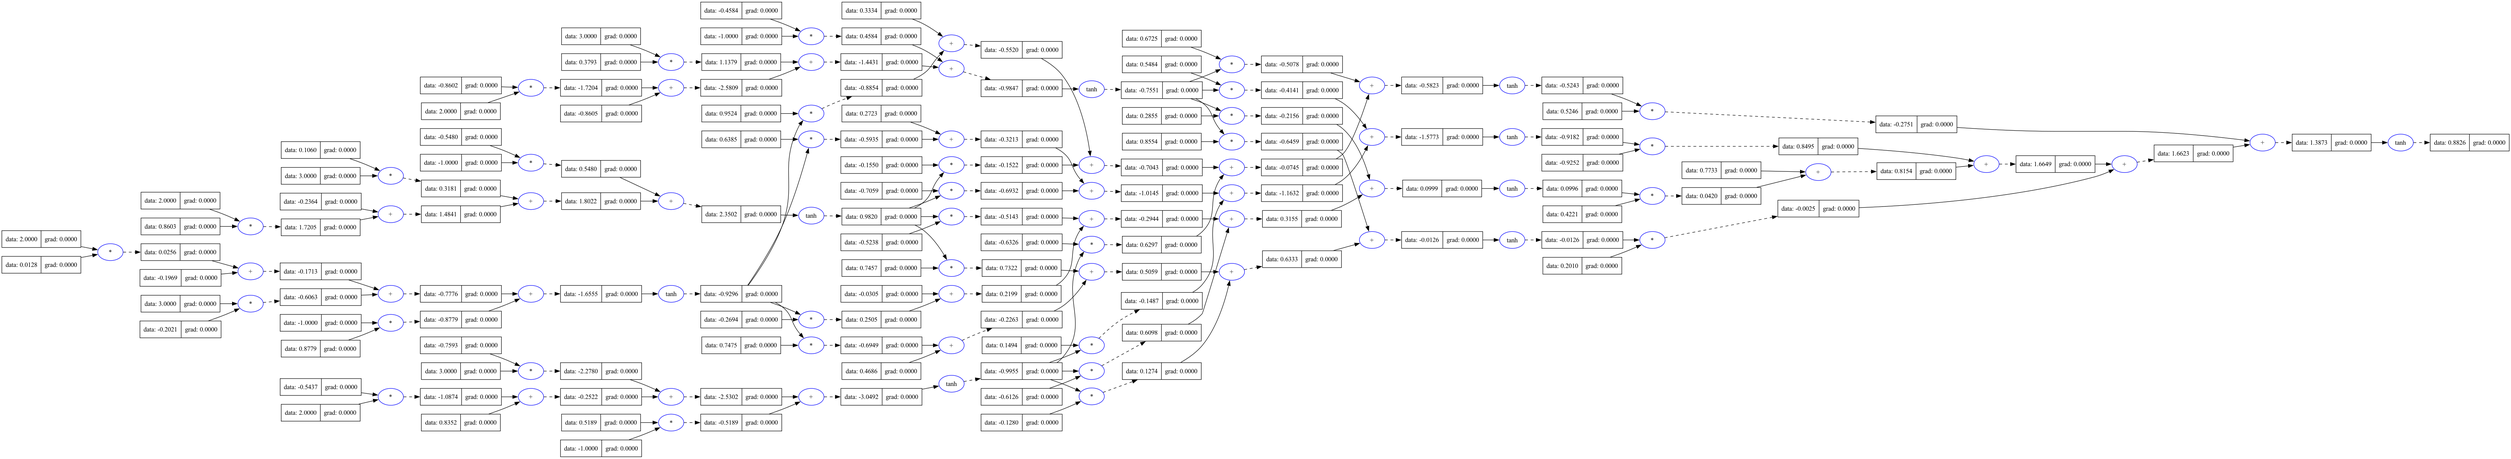
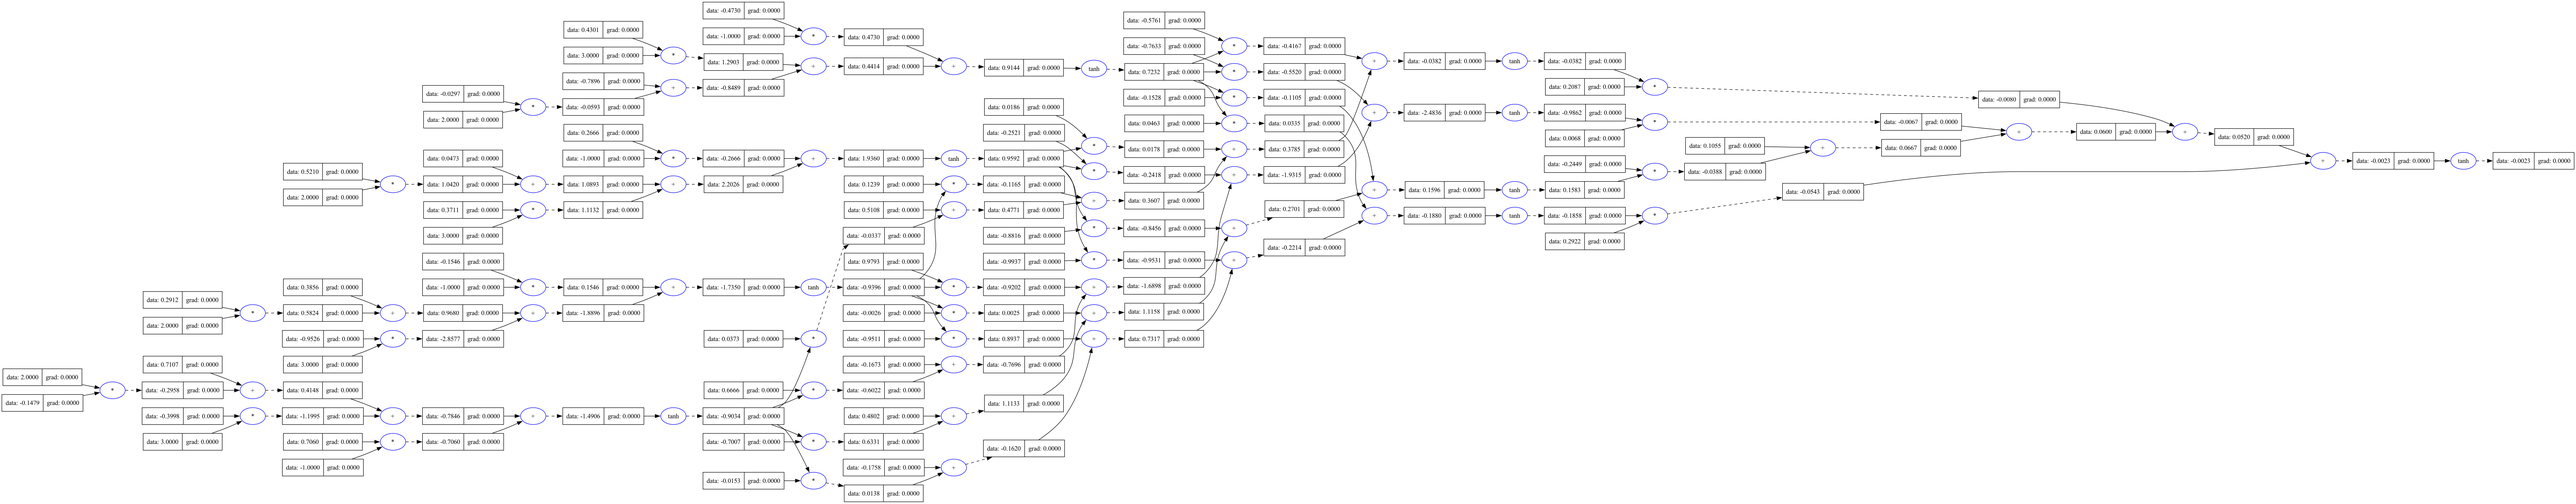
performing the gradient descent optimization

diff --git a/micrograd_from_scratch.py b/micrograd_from_scratch.py
@@ -7,6 +7,35 @@ from IPython.display import Image
 import torch 
 import random
 
+
+
+    ## Dunder methods (magic methods)
+    ## Adding pointers to keep track of the children of the node
+    ## Keep track of the operation that created the node
+    ## Visualizing the graph
+    ## Backpropagation and calculating gradiants for all intermediate nodes
+    ## Adding a gradient attribute to the Value class for backpropagation
+    ## Calculating backpropagation manually to better understand the logic behind the library 
+    ## Calculating the gradient using the lol function
+    ## Understanding neural networks and how they work 
+    ## Adding activation functions introduces non-linearity, which allows the network to model complex, non-linear relationships between inputs and outputs.Essential for tasks that require non linear decision boundaries such as image classification, speech recognition and natural language processing
+    ## Coding the backpropagation process 
+    ## Applying topological sort to the graph before backpropagation 
+    ## Bug when using a variable more than one in the graph (accumulating gradients)
+    ## Breaking down the tanh function into smaller parts
+    ## Using pytorch to build a simple perceptron ( the simple type of neural network. A perceptron is a single layer neural network that can only solve linear problems) It cannot handle xor problems
+    ## Building a simple neural network with a single neuron
+    ## Building a layer or neurons
+    ## Building a multi-layer perceptron (MLP)
+    ## Adding parameters methods to the neuron and layer classes for easier access to the parameters
+    ## Performing backward and forward passes on the MLP for training 
+    ## Verifying the output after gradient descent
+
+
+
+
+
+
 ## define function
 def f(x):
     return 3*x**2 - 4*x + 5
@@ -44,21 +73,7 @@ d2 = a*b + c
 
 ## defining a class Value
 class Value:
-    ## Dunder methods (magic methods)
-    ## Adding pointers to keep track of the children of the node
-    ## Keep track of the operation that created the node
-    ## Visualizing the graph
-    ## Backpropagation and calculating gradiants for all intermediate nodes
-    ## Adding a gradient attribute to the Value class for backpropagation
-    ## Calculating backpropagation manually to better understand the logic behind the library 
-    ## Calculating the gradient using the lol function
-    ## Understanding neural networks and how they work 
-    ## Adding activation functions introduces non-linearity, which allows the network to model complex, non-linear relationships between inputs and outputs.Essential for tasks that require non linear decision boundaries such as image classification, speech recognition and natural language processing
-    ## Coding the backpropagation process 
-    ## Applying topological sort to the graph before backpropagation 
-    ## Bug when using a variable more than one in the graph (accumulating gradients)
-    ## Breaking down the tanh function into smaller parts
-    ## Using pytorch to build a simple perceptron ( the simple type of neural network. A perceptron is a single layer neural network that can only solve linear problems) It cannot handle xor problems
+   
     def __init__(self, data, _children=(), _op='', label=''): 
         self.data = data 
         self.grad = 0.0
@@ -83,11 +98,18 @@ class Value:
         return out
     
     ## substraction operation
-    def _sub_(self,other):
-        return self + (-other)
+    def __sub__(self, other):
+        other = other if isinstance(other, Value) else Value(other)
+        return self + (-1 * other)
+    
+    def __rsub__(self, other):
+        return self.__sub__(other)
+    
+    def __neg__(self):
+        return self * -1
     
     ## power operation
-    def _pow_(self,other):
+    def __pow__(self, other):
         assert isinstance(other, (int, float)), "only supporting int/float powers for now"
         out = Value(self.data ** other, (self, ), f'**{other}')
 
@@ -101,8 +123,8 @@ class Value:
         return self * other ** -1
     
     ## fall back to the multiplication operation if the other is not a Value
-    def _rrmul_(self,other): 
-        return self * other 
+    def __rmul__(self, other):
+        return self * other
     
     ## exponential operation 
     def exp(self):
@@ -413,6 +435,10 @@ class Neuron:
         act = sum((wi * xi for wi, xi in zip(self.w, x)), self.b)
         out = act.tanh()
         return out
+    
+    ## getting the parameters of the neuron. returns the parameters scalar values
+    def parameters(self):
+        return self.w + [self.b]
 
 # Building a layer or neurons
 class Layer:
@@ -425,6 +451,11 @@ class Layer:
         outs = [n(x) for n in self.neurons]
         return outs[0] if len(outs) == 1 else outs
     
+    ## getting the parameters of the layer. returns the parameters scalar values
+    def parameters(self):
+        return [p for neuron in self.neurons for p in neuron.parameters()]
+        
+
 class MLP:
     ## nin is the number of inputs to the MLP
     ## nouts is the number of outputs to the MLP
@@ -436,6 +467,10 @@ class MLP:
         for layer in self.layers:
             x = layer(x)
         return x
+    
+    ## getting the parameters of the MLP. returns the parameters scalar values
+    def parameters(self):
+        return [p for layer in self.layers for p in layer.parameters()]
 
 x = [2.0, 3.0, -1.0]
 ## Building a simple neural network that has 3 inputs, 2 hidden layers with 4 neurons each, and 1 output neuron
@@ -443,3 +478,62 @@ n = MLP(3, [4, 4, 1])
 print(n(x))
 
 draw_dot(n(x))
+
+## Creating a simple dataset
+xs = [
+    [2.0, 3.0, -1.0],
+    [3.0, -1.0, 0.5],
+    [0.5, 1.0, 1.0],
+    [1.0, 1.0, -1.0]
+]
+
+## Desired output
+ys = [1.0, -1.0, -1.0, 1.0]
+
+
+## Predicted output
+ypred = [n(x) for x in xs]
+print(ypred)
+
+
+## Calculating the loss 
+loss = Value(0.0)
+for ygt, yout in zip(ys, ypred):
+    loss = loss + (yout - ygt)**2
+print("Loss function",loss)
+
+loss.backward()
+
+
+
+for p in n.parameters():
+    p.data += -0.01 * p.grad
+
+print("Loss after 1 step of gradient descent", n(x))
+print("Ypred after 1 step of gradient descent", ypred)
+
+# Training loop
+for k in range(100):  # 100 epochs
+    # Forward pass
+    ypred = [n(x) for x in xs]
+    
+    # Compute loss
+    loss = Value(0.0)
+    for ygt, yout in zip(ys, ypred):
+        loss = loss + (yout - ygt)**2
+    
+    # Backward pass
+    for p in n.parameters():
+        p.grad = 0.0  # Zero grad before backward pass
+    loss.backward()
+    
+    # Update weights
+    learning_rate = 0.05  
+    for p in n.parameters():
+        p.data += -learning_rate * p.grad
+    
+    # Printing progress every 10 epochs
+    if k % 10 == 0:
+        print(f"Step {k}: loss = {loss.data}")
+
+print("predictions after training", ypred)
